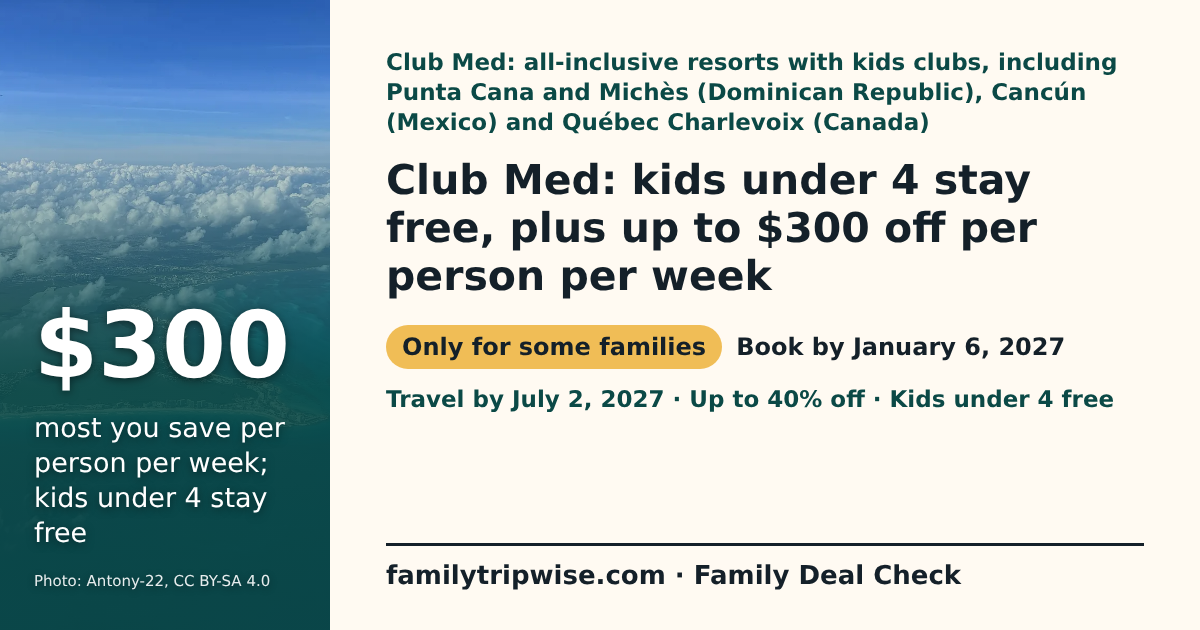
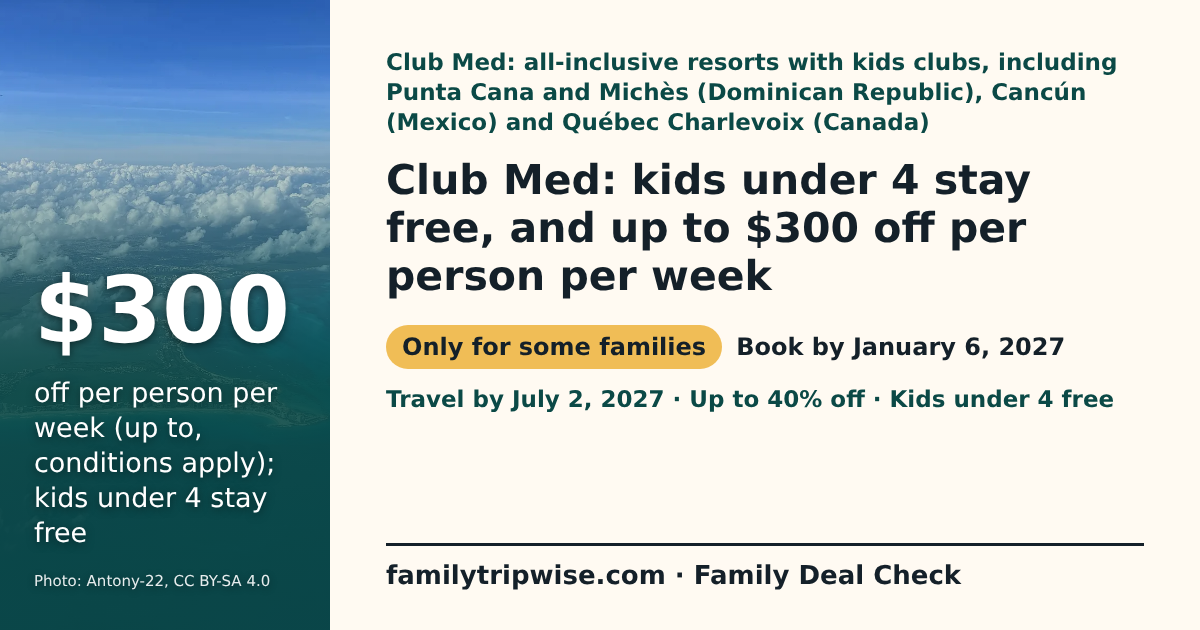
G11: Club Med v2 review fixes (verdict before photo, plain savings, $ in v2 terms table, honest caption)
Claude-Session: https://claude.ai/code/session_018uWk6xTYBLRcsYS8LiKPrX

Changed region(s): [[0.0308, 0.4222, 0.2467, 0.754], [0.4317, 0.3317, 0.8633, 0.3921]]

diff --git a/site/deals/club-med-all-inclusive-kids-under-4.html b/site/deals/club-med-all-inclusive-kids-under-4.html
@@ -4,17 +4,17 @@
     <meta charset="utf-8">
     <meta name="viewport" content="width=device-width, initial-scale=1">
     <title>Club Med Deal: Kids Under 4 Stay Free, Up to $300 Off per Person per Week | Family Tripwise</title>
-    <meta name="description" content="Club Med: all-inclusive resorts with kids clubs, including Punta Cana and Michès (Dominican Republic), Cancún (Mexico) and Québec Charlevoix (Canada). Club Med: kids under 4 stay free, plus up to $300 off per person per week. Book by January 6, 2027.">
+    <meta name="description" content="Club Med: all-inclusive resorts with kids clubs, including Punta Cana and Michès (Dominican Republic), Cancún (Mexico) and Québec Charlevoix (Canada). Club Med: kids under 4 stay free, and up to $300 off per person per week. Book by January 6, 2027.">
     <link rel="canonical" href="https://familytripwise.com/deals/club-med-all-inclusive-kids-under-4.html">
     <meta property="og:type" content="article">
     <meta property="og:site_name" content="Family Tripwise">
     <meta property="og:title" content="Club Med Deal: Kids Under 4 Stay Free, Up to $300 Off per Person per Week">
-    <meta property="og:description" content="Club Med: kids under 4 stay free, plus up to $300 off per person per week. Book by January 6, 2027.">
+    <meta property="og:description" content="Club Med: kids under 4 stay free, and up to $300 off per person per week. Book by January 6, 2027.">
     <meta property="og:url" content="https://familytripwise.com/deals/club-med-all-inclusive-kids-under-4.html">
     <meta property="og:image" content="https://familytripwise.com/images/og/deals/club-med-all-inclusive-kids-under-4.png">
     <meta property="og:image:width" content="1200">
     <meta property="og:image:height" content="630">
-    <meta property="og:image:alt" content="$300 most you save per person per week; kids under 4 stay free">
+    <meta property="og:image:alt" content="$300 off per person per week (up to, conditions apply); kids under 4 stay free">
     <meta name="twitter:card" content="summary_large_image">
     <link rel="stylesheet" href="../styles.css">
   </head>
@@ -25,25 +25,25 @@
         <div class="container deal-hero-grid">
           <div>
             <p class="eyebrow deal-context">Club Med: all-inclusive resorts with kids clubs, including Punta Cana and Michès (Dominican Republic), Cancún (Mexico) and Québec Charlevoix (Canada)</p>
-            <h1>Club Med: kids under 4 stay free, plus up to $300 off per person per week</h1>
+            <h1>Club Med: kids under 4 stay free, and up to $300 off per person per week</h1>
             <ul class="deal-chips" aria-label="Key terms"><li class="deal-chip-verdict deal-verdict-only_for">Only for some families</li><li>Book by January 6, 2027</li><li>Travel by July 2, 2027</li><li>Up to 40% off</li><li>Kids under 4 free</li></ul>
             
             <p class="contributor-credit">AI research contributor: <a href="../contributors/miles-rowan.html">Miles Rowan</a></p>
           </div>
-          <div class="deal-big" aria-hidden="true"><span class="deal-big-number">$300</span><span class="deal-big-label">most you save per person per week; kids under 4 stay free</span></div>
+          <div class="deal-big" aria-hidden="true"><span class="deal-big-number">$300</span><span class="deal-big-label">off per person per week (up to, conditions apply); kids under 4 stay free</span></div>
         </div>
-        <figure class="container licensed-photo deal-photo">
-          <img src="../images/cancun-aerial.webp" alt="Cancún&#39;s coast, hotel strip and lagoon seen from the air" width="1600" height="1200" class="intrinsic-photo" loading="eager" fetchpriority="high" decoding="async">
-          <figcaption>Cancún from the air, where Club Med has one of its family resorts; this older visitor photo does not show the Club Med resort and was not taken by Family Tripwise. Photo: Antony-22, Wikimedia Commons, <a href="https://creativecommons.org/licenses/by-sa/4.0">CC BY-SA 4.0</a>; Family Tripwise serves a resized copy. <a href="https://commons.wikimedia.org/wiki/File:Canc%C3%BAn_aerial_2024.jpg">License and source</a>.</figcaption>
-        </figure>
       </section>
       <section id="deal-answer" class="container answer-box deal-glance" aria-label="Verdict, cost and savings">
-        <p class="deal-verdict deal-verdict-only_for"><strong>Our verdict:</strong> Only children under 4 are shown as free and the conditions behind the asterisks were not readable, so families with older kids should not expect free child stays.</p>
+        <p class="deal-verdict deal-verdict-only_for"><strong>Our verdict:</strong> Worth a look only if every child is under 4: kids 4 and up pay, and the offer page shows no price for them.</p>
         <p><strong>Best for:</strong> Families whose kids are all under 4, going to a Club Med resort in the Caribbean, Mexico or Canada by July 2, 2027.</p>
-        <p><strong>Not for:</strong> Families with kids 4 or older who expect free child stays, or anyone who wants the full rules first: the conditions behind the offer&#39;s asterisks were not readable on the offer page.</p>
-        <p class="deal-money"><strong>Saves: kids under 4 stay free, plus up to $300 per person per week off and up to $300 air credit if you book flights with Club Med. The page says up to 40% off; footnoted conditions apply.</strong></p>
-        <p>Trip cost: we have no checked price for a family of 4 yet, and kids 4 and up pay. Price your dates on clubmed.us with every child&#39;s age entered, and add flights from your airport (for example New York City).</p>
+        <p><strong>Not for:</strong> Families with kids 4 or older who expect free child stays, or anyone who needs a price before booking.</p>
+        <p class="deal-money"><strong>Saves: kids under 4 stay free, and up to $300 per person per week off; up to $300 air credit if you book flights with Club Med. Club Med also says up to 40% off but shows no regular price to measure it against.</strong></p>
+        <p>Trip cost: we have no checked price for a family of 4 yet. To check: price 4 nights for 2 adults and kids 2 and 3 on clubmed.us, add flights from your airport (for example New York City), and ask whether the per-week savings apply to shorter stays.</p>
       </section>
+        <figure class="container licensed-photo deal-photo">
+          <img src="../images/cancun-aerial.webp" alt="Cancún&#39;s coast, hotel strip and lagoon seen from the air" width="1600" height="1200" class="intrinsic-photo" loading="eager" fetchpriority="high" decoding="async">
+          <figcaption>Cancún from the air (a 2024 Wikimedia Commons photo, not taken by Family Tripwise); Club Med has a family resort in Cancún, but this photo does not show it. Photo: Antony-22, Wikimedia Commons, <a href="https://creativecommons.org/licenses/by-sa/4.0">CC BY-SA 4.0</a>; Family Tripwise serves a resized copy. <a href="https://commons.wikimedia.org/wiki/File:Canc%C3%BAn_aerial_2024.jpg">License and source</a>.</figcaption>
+        </figure>
       <section class="container page-section" aria-labelledby="deal-get-title">
         <h2 id="deal-get-title">What a family of 4 gets</h2>
         <p>Example family of 4: 2 adults and 2 kids aged 2 and 3.</p>
@@ -64,14 +64,14 @@
       </section>
       <section class="container page-section" aria-labelledby="deal-todo-title">
         <h2 id="deal-todo-title">What kids can do there</h2>
-        <ul><li>Mini Club Med+ for ages 4 to 10, run by Club Med staff, at Punta Cana, Michès Playa Esmeralda, Cancún and Québec Charlevoix.</li><li>Mini Club classics: circus lessons, flying trapeze, archery, mini tennis, team sports and the Mini Club Med Show.</li><li>Newer games such as Nature Detective (clue hunts about the resort&#39;s plants and animals) and Ninja Bootcamp (kids design their own obstacle course).</li></ul>
+        <ul><li>Mini Club Med+ for ages 4 to 10, run by Club Med staff, at Punta Cana, Michès Playa Esmeralda, Cancún and Québec Charlevoix.</li><li>Mini Club activities: circus lessons, flying trapeze, archery, mini tennis, team sports and the Mini Club Med Show.</li><li>Games such as Nature Detective (clue hunts about the resort&#39;s plants and animals) and Ninja Bootcamp (kids design their own obstacle course).</li></ul>
         <p class="review-label">From <a href="https://www.clubmed.us/l/kids-mini">Club Med Mini Club Med+ page (ages 4 to 10)</a>, checked October 29, 2026. This is what Club Med says; we have not visited.</p>
       </section>
       <section class="container page-section" aria-labelledby="deal-proscons-title">
         <h2 id="deal-proscons-title">Pros and cons</h2>
         <div class="deal-proscons">
-          <div><h3>Pros</h3><ul><li>Real savings if all your kids are under 4.</li><li>A long window: book by January 6 and travel by July 2, 2027, including spring break and early summer.</li><li>Family resorts have kids clubs with circus, trapeze and sports.</li></ul></div>
-          <div><h3>Cons</h3><ul><li>Kids 4 and up are not free, and the page shows no child price.</li><li>The fine print was not readable, so fees, minimum stays and blackouts are unknown.</li><li>The toddler club (ages 2 to 3) costs extra.</li></ul></div>
+          <div><h3>Pros</h3><ul><li>Kids under 4 are shown as staying free.</li><li>A long window: book by January 6 and travel by July 2, 2027, including spring break and early summer.</li><li>Family resorts have kids clubs with circus, trapeze and sports.</li></ul></div>
+          <div><h3>Cons</h3><ul><li>Kids 4 and up are not free, and the page shows no child price.</li><li>Fees, minimum stays and blackout dates are unknown until you get the full terms.</li><li>The toddler club (ages 2 to 3) costs extra.</li></ul></div>
         </div>
       </section>
       <section class="container page-section" aria-labelledby="deal-terms-title">
@@ -82,7 +82,7 @@
             <table class="deal-terms" role="table">
               <caption>What the Club Med offer page said on October 28, 2026</caption>
               <thead role="rowgroup"><tr role="row"><th scope="col" role="columnheader">Term</th><th scope="col" role="columnheader">What the official page says</th></tr></thead>
-              <tbody role="rowgroup"><tr role="row"><th scope="row" role="rowheader">Book by</th><td role="cell">January 6, 2027.</td></tr><tr role="row"><th scope="row" role="rowheader">Travel by</th><td role="cell">July 2, 2027 (no start date shown); the page names the holiday season, spring break and early summer.</td></tr><tr role="row"><th scope="row" role="rowheader">Where</th><td role="cell">Caribbean, Canada or Mexico resorts; the page does not list which resorts qualify.</td></tr><tr role="row"><th scope="row" role="rowheader">Discount</th><td role="cell">Save up to 40%, with conditions in a footnote.</td></tr><tr role="row"><th scope="row" role="rowheader">Child ages</th><td role="cell">Kids under 4 stay free (footnoted). No child price is shown for ages 4 and up.</td></tr><tr role="row"><th scope="row" role="rowheader">Other savings</th><td role="cell">Up to USD 300 instant savings per person per week, and up to USD 300 instant air credit when flights are booked with Club Med (both footnoted).</td></tr><tr role="row"><th scope="row" role="rowheader">Fees, minimum nights, blackouts</th><td role="cell">Not stated on the offer page.</td></tr></tbody>
+              <tbody role="rowgroup"><tr role="row"><th scope="row" role="rowheader">Book by</th><td role="cell">January 6, 2027.</td></tr><tr role="row"><th scope="row" role="rowheader">Travel by</th><td role="cell">July 2, 2027 (no start date shown); the page names the holiday season, spring break and early summer.</td></tr><tr role="row"><th scope="row" role="rowheader">Where</th><td role="cell">Caribbean, Canada or Mexico resorts; the page does not list which resorts qualify.</td></tr><tr role="row"><th scope="row" role="rowheader">Discount</th><td role="cell">Save up to 40%, with conditions in a footnote.</td></tr><tr role="row"><th scope="row" role="rowheader">Child ages</th><td role="cell">Kids under 4 stay free (footnoted). No child price is shown for ages 4 and up.</td></tr><tr role="row"><th scope="row" role="rowheader">Other savings</th><td role="cell">Up to $300 instant savings per person per week, and up to $300 instant air credit when flights are booked with Club Med (both footnoted).</td></tr><tr role="row"><th scope="row" role="rowheader">Fees, minimum nights, blackouts</th><td role="cell">Not stated on the offer page.</td></tr></tbody>
             </table>
           </div>
         </details>
@@ -97,7 +97,7 @@
       </nav>
       <section class="container page-section deal-sources" aria-labelledby="deal-sources-title">
         <h2 id="deal-sources-title">Sources and how we check</h2>
-        <ul><li>The offer terms: <a href="https://www.clubmed.us/o/best-all-inclusive-vacation-deals">Club Med all-inclusive vacation deals page</a>, checked October 28, 2026.</li><li>Where the resorts are and what they include: <a href="https://www.clubmed.us/l/kids-petit">Club Med Petit Club Med page (ages 2 to 3)</a>, checked October 29, 2026.</li><li>Things to do: <a href="https://www.clubmed.us/l/kids-mini">Club Med Mini Club Med+ page (ages 4 to 10)</a>, checked October 29, 2026.</li></ul>
+        <ul><li>The offer terms: <a href="https://www.clubmed.us/o/best-all-inclusive-vacation-deals">Club Med all-inclusive vacation deals page</a>, checked October 28, 2026.</li><li>Where the resorts are and their kids clubs: <a href="https://www.clubmed.us/l/kids-petit">Club Med Petit Club Med page (ages 2 to 3)</a>, checked October 29, 2026.</li><li>Things to do: <a href="https://www.clubmed.us/l/kids-mini">Club Med Mini Club Med+ page (ages 4 to 10)</a>, checked October 29, 2026.</li></ul>
         <p>Every term was read on the company's own pages on the dates shown. We have not booked this offer or stayed at these resorts. "Family of 4" notes are our reading of the terms, not a quote. We show a trip price only when we saw one on the official site for a named family and named dates. Prices and availability change: check live before you book.</p>
       </section>
     </main>

diff --git a/site/deals/beaches-first-passport-credit.html b/site/deals/beaches-first-passport-credit.html
@@ -32,10 +32,6 @@
           </div>
           <div class="deal-big" aria-hidden="true"><span class="deal-big-number">$135</span><span class="deal-big-label">resort credit per child 5 or under with a new passport</span></div>
         </div>
-        <figure class="container licensed-photo deal-photo">
-          <img src="../images/beaches-turks-caicos-pool.webp" alt="A pool at Beaches Turks and Caicos, with palm trees and the resort buildings behind it" width="1120" height="745" class="intrinsic-photo" loading="eager" fetchpriority="high" decoding="async">
-          <figcaption>A pool at Beaches Turks and Caicos (an older visitor photo, not taken by Family Tripwise). Photo: Britt Reints from Pittsburgh, PA, Wikimedia Commons, <a href="https://creativecommons.org/licenses/by/2.0">CC BY 2.0</a>; Family Tripwise serves a resized copy. <a href="https://commons.wikimedia.org/wiki/File:Beaches_Resort_Pool_-_Turks_%26_Caicos_(6709609799).jpg">License and source</a>.</figcaption>
-        </figure>
       </section>
       <section id="deal-answer" class="container answer-box deal-glance" aria-label="Verdict, cost and savings">
         <p class="deal-verdict deal-verdict-only_for"><strong>Our verdict:</strong> A credit for resort extras, not a room discount, with a very short booking and travel window.</p>
@@ -44,6 +40,10 @@
         <p class="deal-money"><strong>Saves: up to $270 in resort credit for two eligible kids ($135 each). It pays for extras such as spa, room upgrades or scuba; it does not lower the room price.</strong></p>
         <p>Trip cost: we have no checked price for a family of 4 yet, and the offer needs at least 5 paid nights. Price your dates on beaches.com and add flights from your airport (for example New York City).</p>
       </section>
+        <figure class="container licensed-photo deal-photo">
+          <img src="../images/beaches-turks-caicos-pool.webp" alt="A pool at Beaches Turks and Caicos, with palm trees and the resort buildings behind it" width="1120" height="745" class="intrinsic-photo" loading="eager" fetchpriority="high" decoding="async">
+          <figcaption>A pool at Beaches Turks and Caicos (an older visitor photo, not taken by Family Tripwise). Photo: Britt Reints from Pittsburgh, PA, Wikimedia Commons, <a href="https://creativecommons.org/licenses/by/2.0">CC BY 2.0</a>; Family Tripwise serves a resized copy. <a href="https://commons.wikimedia.org/wiki/File:Beaches_Resort_Pool_-_Turks_%26_Caicos_(6709609799).jpg">License and source</a>.</figcaption>
+        </figure>
       <section class="container page-section" aria-labelledby="deal-get-title">
         <h2 id="deal-get-title">What a family of 4 gets</h2>
         <p>Example family of 4: 2 adults and 2 kids aged 2 and 5, both with passports issued after August 1, 2025.</p>
@@ -82,7 +82,7 @@
             <table class="deal-terms" role="table">
               <caption>What the Beaches Resorts offer page said on October 28, 2026</caption>
               <thead role="rowgroup"><tr role="row"><th scope="col" role="columnheader">Term</th><th scope="col" role="columnheader">What the official page says</th></tr></thead>
-              <tbody role="rowgroup"><tr role="row"><th scope="row" role="rowheader">Book by</th><td role="cell">October 31, 2026, on Beaches websites or through a travel advisor.</td></tr><tr role="row"><th scope="row" role="rowheader">Travel by</th><td role="cell">November 6, 2026.</td></tr><tr role="row"><th scope="row" role="rowheader">Child ages</th><td role="cell">Ages 5 and under at check-in; up to two children per booking.</td></tr><tr role="row"><th scope="row" role="rowheader">Credit</th><td role="cell">USD 135 per eligible child (maximum USD 270 per booking), issued on arrival after the resort checks the passport.</td></tr><tr role="row"><th scope="row" role="rowheader">Passport</th><td role="cell">A valid passport issued after August 1, 2025 (also the start of the booking window); the original must be shown at check-in. The page describes the offer as valid with U.S. or Canadian passports.</td></tr><tr role="row"><th scope="row" role="rowheader">Minimum nights</th><td role="cell">5 paid nights.</td></tr><tr role="row"><th scope="row" role="rowheader">How to claim</th><td role="cell">Register the booking on the offer page. Registering does not guarantee eligibility.</td></tr><tr role="row"><th scope="row" role="rowheader">Credit can be used for</th><td role="cell">Spa services (15% service charge payable), room upgrades, extended stays, internet upgrades, private dinners, wet suit rentals, photo images, scuba, laundry (not dry cleaning) and cabana rental.</td></tr><tr role="row"><th scope="row" role="rowheader">Exclusions</th><td role="cell">No cash value; not for contracted groups or industry rates; the offer can be withdrawn at any time.</td></tr></tbody>
+              <tbody role="rowgroup"><tr role="row"><th scope="row" role="rowheader">Book by</th><td role="cell">October 31, 2026, on Beaches websites or through a travel advisor.</td></tr><tr role="row"><th scope="row" role="rowheader">Travel by</th><td role="cell">November 6, 2026.</td></tr><tr role="row"><th scope="row" role="rowheader">Child ages</th><td role="cell">Ages 5 and under at check-in; up to two children per booking.</td></tr><tr role="row"><th scope="row" role="rowheader">Credit</th><td role="cell">$135 per eligible child (maximum $270 per booking), issued on arrival after the resort checks the passport.</td></tr><tr role="row"><th scope="row" role="rowheader">Passport</th><td role="cell">A valid passport issued after August 1, 2025 (also the start of the booking window); the original must be shown at check-in. The page describes the offer as valid with U.S. or Canadian passports.</td></tr><tr role="row"><th scope="row" role="rowheader">Minimum nights</th><td role="cell">5 paid nights.</td></tr><tr role="row"><th scope="row" role="rowheader">How to claim</th><td role="cell">Register the booking on the offer page. Registering does not guarantee eligibility.</td></tr><tr role="row"><th scope="row" role="rowheader">Credit can be used for</th><td role="cell">Spa services (15% service charge payable), room upgrades, extended stays, internet upgrades, private dinners, wet suit rentals, photo images, scuba, laundry (not dry cleaning) and cabana rental.</td></tr><tr role="row"><th scope="row" role="rowheader">Exclusions</th><td role="cell">No cash value; not for contracted groups or industry rates; the offer can be withdrawn at any time.</td></tr></tbody>
             </table>
           </div>
         </details>
@@ -92,12 +92,12 @@
       </section>
       <nav class="container page-section deal-others" aria-labelledby="deal-others-title">
         <h2 id="deal-others-title">More Family Deal Checks</h2>
-        <ul><li><a href="./great-wolf-lodge-fall-flash-sale.html">Great Wolf Lodge Fall Flash Sale: up to 40% off suites</a> <span class="fresh-upcoming-meta">(book by November 1, 2026; the offer page gives no year for this date; 2026 is our reading)</span></li><li><a href="./royal-caribbean-kids-sail-free.html">Royal Caribbean Kids Sail Free (kids 12 and under, select sailings)</a> <span class="fresh-upcoming-meta">(book by November 2, 2026)</span></li><li><a href="./norwegian-free-2nd-guest-3rd-4th-free.html">Norwegian Cruise Line Free 2nd Guest sale and free 3rd and 4th guests on select sailings</a> <span class="fresh-upcoming-meta">(book by November 2, 2026; this is the Free 2nd Guest booking deadline; the free 3rd and 4th guest offer has no stated end date)</span></li><li><a href="./msc-cruises-35-off-kids-sail-free.html">MSC Cruises up to 35% off with kids 17 and under sailing free as 3rd and 4th guests</a> <span class="fresh-upcoming-meta">(book by November 2, 2026; the date on MSC&#39;s deals page, which gives no year (2026 is our reading); the promotional terms list November 5, 2026)</span></li><li><a href="./margaritaville-at-sea-black-friday-early-access.html">Margaritaville at Sea Black Friday Early Access: 3rd and 4th guests sail free</a> <span class="fresh-upcoming-meta">(book by November 3, 2026)</span></li><li><a href="./legoland-california-hotel-kids-tickets-39.html">LEGOLAND California hotel package: kids&#39; tickets from $39 a day</a> <span class="fresh-upcoming-meta">(book by November 17, 2026)</span></li><li><a href="./atlantis-bahamas-fall-into-paradise.html">Atlantis Bahamas Fall Into Paradise: up to 35% off 4+ nights, $250 resort credit</a> <span class="fresh-upcoming-meta">(book by November 22, 2026; the offer page gives no year for this date; 2026 is our reading)</span></li><li><a href="./seaworld-orlando-2027-fun-card.html">SeaWorld Orlando 2027 Fun Card: unlimited visits for the rest of 2026 and all of 2027</a> <span class="fresh-upcoming-meta">(listed until December 31, 2026; no purchase deadline is stated; this is the last day the free rest-of-2026 visits can be used)</span></li><li><a href="./club-med-all-inclusive-kids-under-4.html">Club Med: kids under 4 stay free, plus up to $300 off per person per week</a> <span class="fresh-upcoming-meta">(book by January 6, 2027)</span></li></ul>
+        <ul><li><a href="./great-wolf-lodge-fall-flash-sale.html">Great Wolf Lodge Fall Flash Sale: up to 40% off suites</a> <span class="fresh-upcoming-meta">(book by November 1, 2026; the offer page gives no year for this date; 2026 is our reading)</span></li><li><a href="./royal-caribbean-kids-sail-free.html">Royal Caribbean Kids Sail Free (kids 12 and under, select sailings)</a> <span class="fresh-upcoming-meta">(book by November 2, 2026)</span></li><li><a href="./norwegian-free-2nd-guest-3rd-4th-free.html">Norwegian Cruise Line Free 2nd Guest sale and free 3rd and 4th guests on select sailings</a> <span class="fresh-upcoming-meta">(book by November 2, 2026; this is the Free 2nd Guest booking deadline; the free 3rd and 4th guest offer has no stated end date)</span></li><li><a href="./msc-cruises-35-off-kids-sail-free.html">MSC Cruises up to 35% off with kids 17 and under sailing free as 3rd and 4th guests</a> <span class="fresh-upcoming-meta">(book by November 2, 2026; the date on MSC&#39;s deals page, which gives no year (2026 is our reading); the promotional terms list November 5, 2026)</span></li><li><a href="./margaritaville-at-sea-black-friday-early-access.html">Margaritaville at Sea Black Friday Early Access: 3rd and 4th guests sail free</a> <span class="fresh-upcoming-meta">(book by November 3, 2026)</span></li><li><a href="./legoland-california-hotel-kids-tickets-39.html">LEGOLAND California hotel package: kids&#39; tickets from $39 a day</a> <span class="fresh-upcoming-meta">(book by November 17, 2026)</span></li><li><a href="./atlantis-bahamas-fall-into-paradise.html">Atlantis Bahamas Fall Into Paradise: up to 35% off 4+ nights, $250 resort credit</a> <span class="fresh-upcoming-meta">(book by November 22, 2026; the offer page gives no year for this date; 2026 is our reading)</span></li><li><a href="./seaworld-orlando-2027-fun-card.html">SeaWorld Orlando 2027 Fun Card: unlimited visits for the rest of 2026 and all of 2027</a> <span class="fresh-upcoming-meta">(listed until December 31, 2026; no purchase deadline is stated; this is the last day the free rest-of-2026 visits can be used)</span></li><li><a href="./club-med-all-inclusive-kids-under-4.html">Club Med: kids under 4 stay free, and up to $300 off per person per week</a> <span class="fresh-upcoming-meta">(book by January 6, 2027)</span></li></ul>
         <p><a href="./">All open family deals</a></p>
       </nav>
       <section class="container page-section deal-sources" aria-labelledby="deal-sources-title">
         <h2 id="deal-sources-title">Sources and how we check</h2>
-        <ul><li>The offer terms: <a href="https://www.beaches.com/first-passport-registration/">Beaches First Passport Offer page</a>, checked October 28, 2026.</li><li>Where the resorts are and what they include: <a href="https://www.beaches.com/vacations/kids/">Beaches kids and family vacations page</a>, checked October 29, 2026.</li></ul>
+        <ul><li>The offer terms: <a href="https://www.beaches.com/first-passport-registration/">Beaches First Passport Offer page</a>, checked October 28, 2026.</li><li>Where the resorts are and their kids clubs: <a href="https://www.beaches.com/vacations/kids/">Beaches kids and family vacations page</a>, checked October 29, 2026.</li></ul>
         <p>Every term was read on the company's own pages on the dates shown. We have not booked this offer or stayed at these resorts. "Family of 4" notes are our reading of the terms, not a quote. We show a trip price only when we saw one on the official site for a named family and named dates. Prices and availability change: check live before you book.</p>
       </section>
     </main>

diff --git a/site/deals/index.html b/site/deals/index.html
@@ -112,8 +112,8 @@
           </article>
           <article class="detail-card deal-card" id="club-med-all-inclusive-kids-under-4">
             <p class="fresh-type">Club Med: all-inclusive resorts with kids clubs, including Punta Cana and Michès (Dominican Republic), Cancún (Mexico) and Québec Charlevoix (Canada)</p>
-            <h3><a href="./club-med-all-inclusive-kids-under-4.html">Club Med: kids under 4 stay free, plus up to $300 off per person per week</a></h3>
-            <p>Saves: kids under 4 stay free, plus up to $300 per person per week off and up to $300 air credit if you book flights with Club Med. The page says up to 40% off; footnoted conditions apply.</p>
+            <h3><a href="./club-med-all-inclusive-kids-under-4.html">Club Med: kids under 4 stay free, and up to $300 off per person per week</a></h3>
+            <p>Saves: kids under 4 stay free, and up to $300 per person per week off; up to $300 air credit if you book flights with Club Med. Club Med also says up to 40% off but shows no regular price to measure it against.</p>
             <p class="deal-deadline"><strong>Book by:</strong> January 6, 2027</p>
             <p class="review-label">Official page, checked October 28, 2026: <a href="https://www.clubmed.us/o/best-all-inclusive-vacation-deals">Club Med all-inclusive vacation deals page</a>.</p>
           </article>

diff --git a/docs/research/deal-checks-2026-10-29.md b/docs/research/deal-checks-2026-10-29.md
@@ -80,7 +80,7 @@ The offer page (https://www.clubmed.us/o/best-all-inclusive-vacation-deals) was 
 
 | Source | Observed value | Change vs previous |
 |---|---|---|
-| https://www.clubmed.us/l/kids-mini | Mini Club Med+ for ages 4 to 10, run by G.O.s; FAQ lists Québec Charlevoix (Canada), Punta Cana and Michès Playa Esmeralda (Dominican Republic), Cancún (Mexico), Opio en Provence (France); activities: Nature Detective, Super Pilot, Ninja Bootcamp, Happiness Building, Giant Caterpillar, circus lessons, mini tennis, flying trapeze, archery, team sports, Mini Club Med Show; page does not say whether Mini Club is included in the price; no hours | first read |
+| https://www.clubmed.us/l/kids-mini | Mini Club Med+ for ages 4 to 10, run by G.O.s; FAQ lists Québec Charlevoix (Canada), Punta Cana and Michès Playa Esmeralda (Dominican Republic), Cancún (Mexico), Opio en Provence (France); activities: Nature Detective (kids explore resort gardens and solve clues about local plants and animals), Super Pilot, Ninja Bootcamp (kids design and complete their own obstacle courses), Happiness Building, Giant Caterpillar, circus lessons, mini tennis, flying trapeze, archery, team sports, Mini Club Med Show; page does not say whether Mini Club is included in the price; no hours | first read |
 | https://www.clubmed.us/l/kids-petit | Petit Club Med ages 2 to 3; "Petit Club Med® services are offered at an additional cost, which may vary depending on the resort."; Pajama Club 7 PM–11 PM; FAQ ("including") lists Punta Cana, Michès Playa Esmeralda, Cancún, Québec Charlevoix, La Plantation d'Albion, Cherating Beach, Bali, Phuket, Valmorel | first read |
 
 Hero photo: the self-hosted Cancún aerial (Antony-22, CC BY-SA 4.0) with a caption saying it does not show the Club Med resort; a Commons photo of a Club Med resort was not readable this run (Commons API refused the sandbox; not retried).
